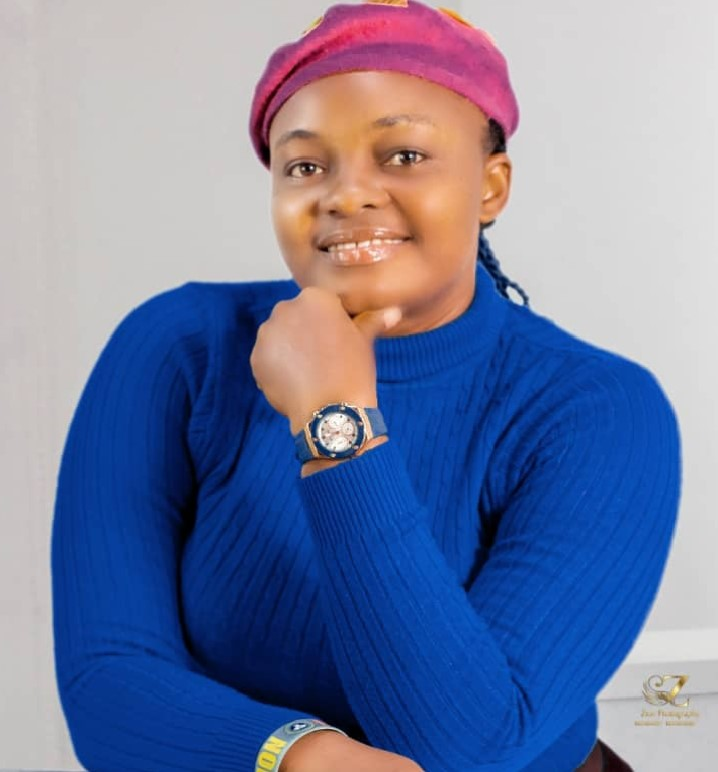
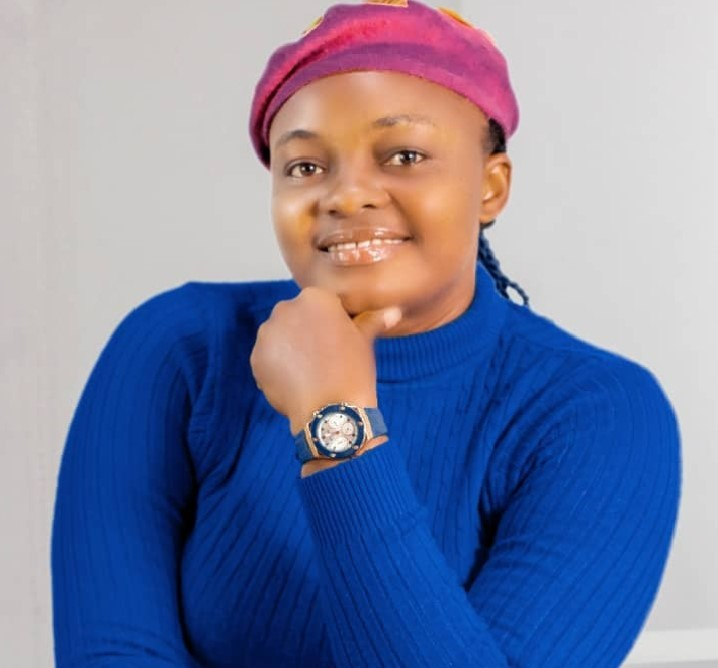
fix portrait image cropping across all pages

diff --git a/css/main.css b/css/main.css
@@ -327,6 +327,7 @@ table th{
     width: 400px;
     height: 350px;
     object-fit: cover;
+    object-position: center top;
     border-radius: 10px;
 }
 
@@ -776,6 +777,7 @@ table th{
     width: 100%;
     height: 460px;
     object-fit: cover;
+    object-position: center top;
     border-radius: 10px;
     margin-bottom: 20px;
 }
@@ -1882,6 +1884,7 @@ table th{
     width: 100%;
     height: 460px;
     object-fit: cover;
+    object-position: center top;
     border-radius: 10px;
     box-shadow: 0 4px 20px rgba(0,0,0,0.12);
     transition: transform 0.3s;
@@ -2267,6 +2270,7 @@ table th{
     width: 100%;
     height: 480px;
     object-fit: cover;
+    object-position: center top;
     display: block;
 }
 

diff --git a/praisenight.html b/praisenight.html
@@ -106,7 +106,7 @@
             <p>Evang. Ojo Ade joined the founder, Pastor Tajudeen Hakeem, to rejoice and minister during the Annual Praise Concert. His powerful ministration brought the entire congregation to their feet as the spirit of God moved mightily through his worship and testimony.</p>
         </div>
         <div class="guest-images">
-            <img src="images/ojoade1.png">
+            <img src="images/ojoade3.png">
             <img src="images/ojoade2.jpg">
         </div>
     </div>
@@ -137,7 +137,7 @@
 
     <div class="guest-block guest-right">
         <div class="guest-images">
-            <img src="images/amarah1.jpg">
+            <img src="images/amarah02.jpg">
             <img src="images/intropraise1.jpg">
         </div>
         <div class="guest-text">